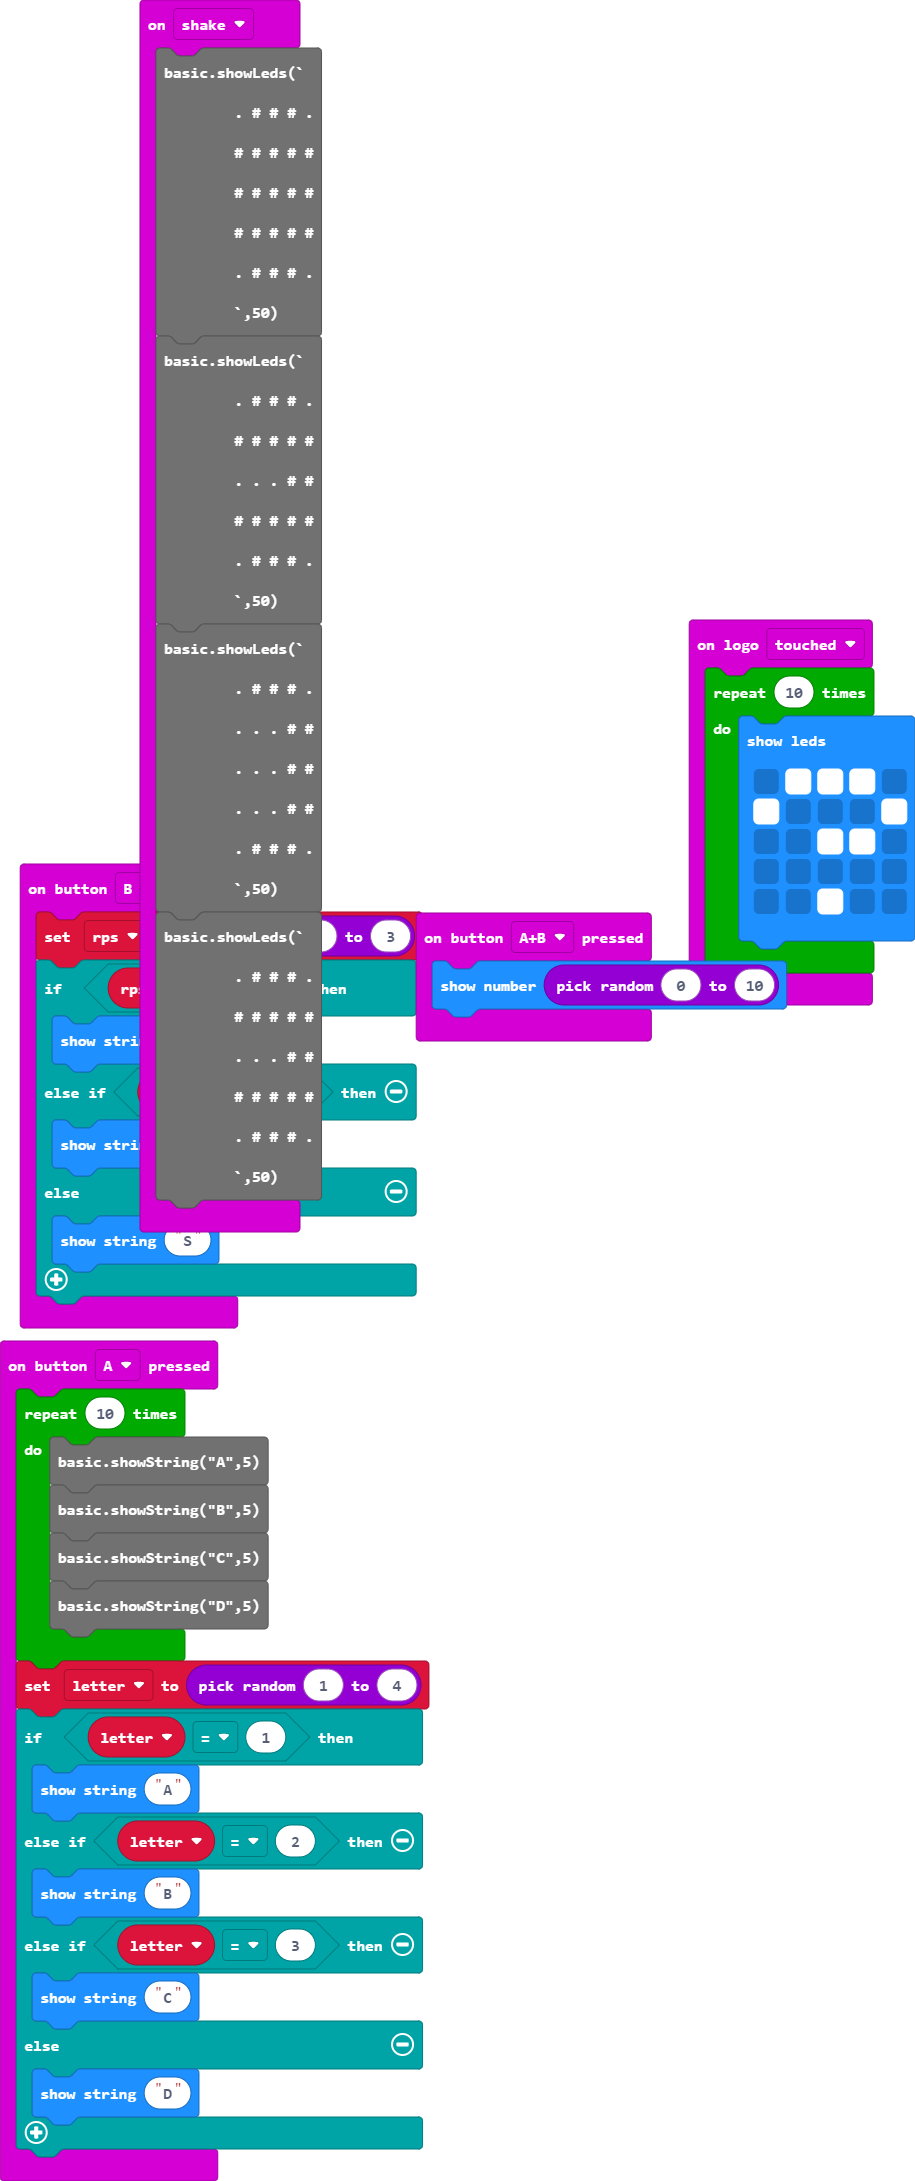
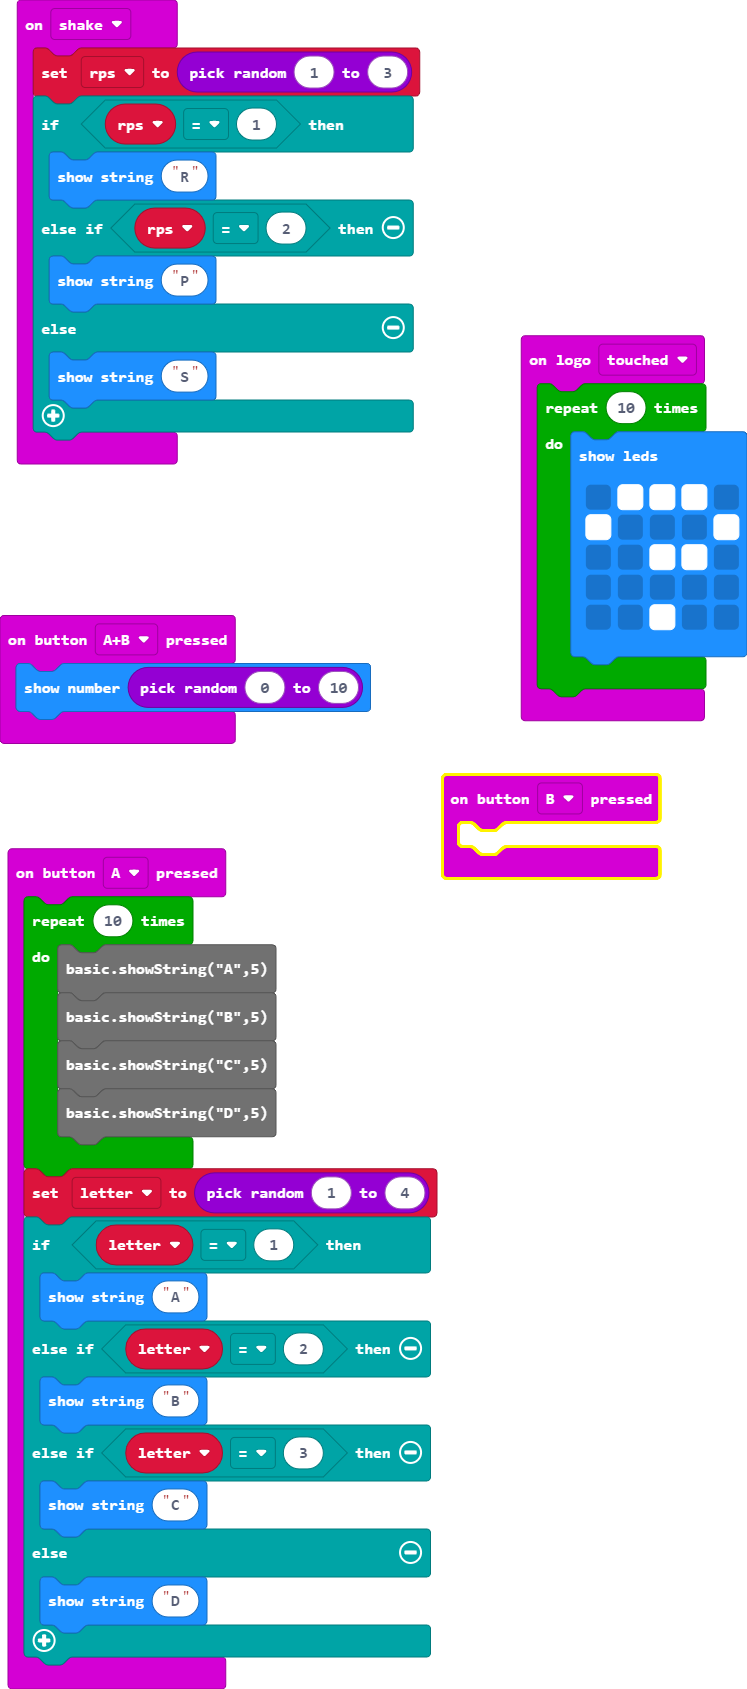
Update main.blocks, main.ts

diff --git a/main.ts b/main.ts
@@ -22,6 +22,9 @@ input.onButtonPressed(Button.AB, function () {
     basic.showNumber(randint(0, 10))
 })
 input.onButtonPressed(Button.B, function () {
+	
+})
+input.onGesture(Gesture.Shake, function () {
     rps = randint(1, 3)
     if (rps == 1) {
         basic.showString("R")
@@ -30,36 +33,6 @@ input.onButtonPressed(Button.B, function () {
     } else {
         basic.showString("S")
     }
-})
-input.onGesture(Gesture.Shake, function () {
-    basic.showLeds(`
-        . # # # .
-        # # # # #
-        # # # # #
-        # # # # #
-        . # # # .
-        `,50)
-basic.showLeds(`
-        . # # # .
-        # # # # #
-        . . . # #
-        # # # # #
-        . # # # .
-        `,50)
-basic.showLeds(`
-        . # # # .
-        . . . # #
-        . . . # #
-        . . . # #
-        . # # # .
-        `,50)
-basic.showLeds(`
-        . # # # .
-        # # # # #
-        . . . # #
-        # # # # #
-        . # # # .
-        `,50)
 })
 input.onLogoEvent(TouchButtonEvent.Touched, function () {
     for (let index = 0; index < 10; index++) {
